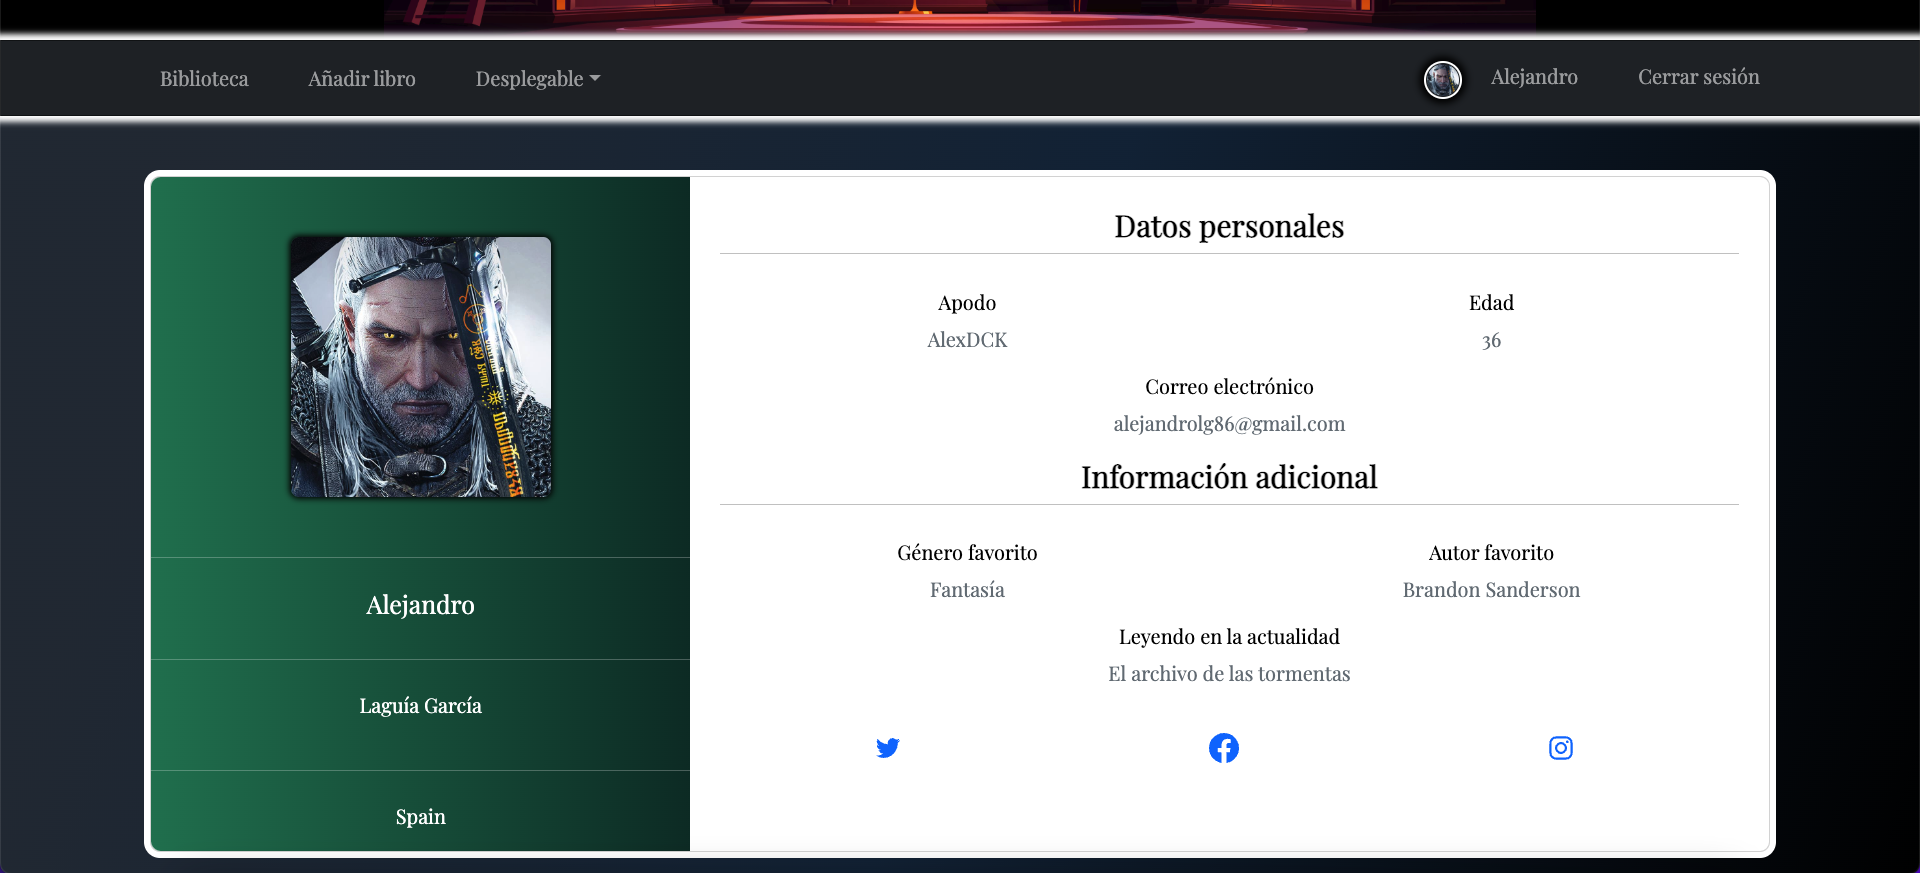
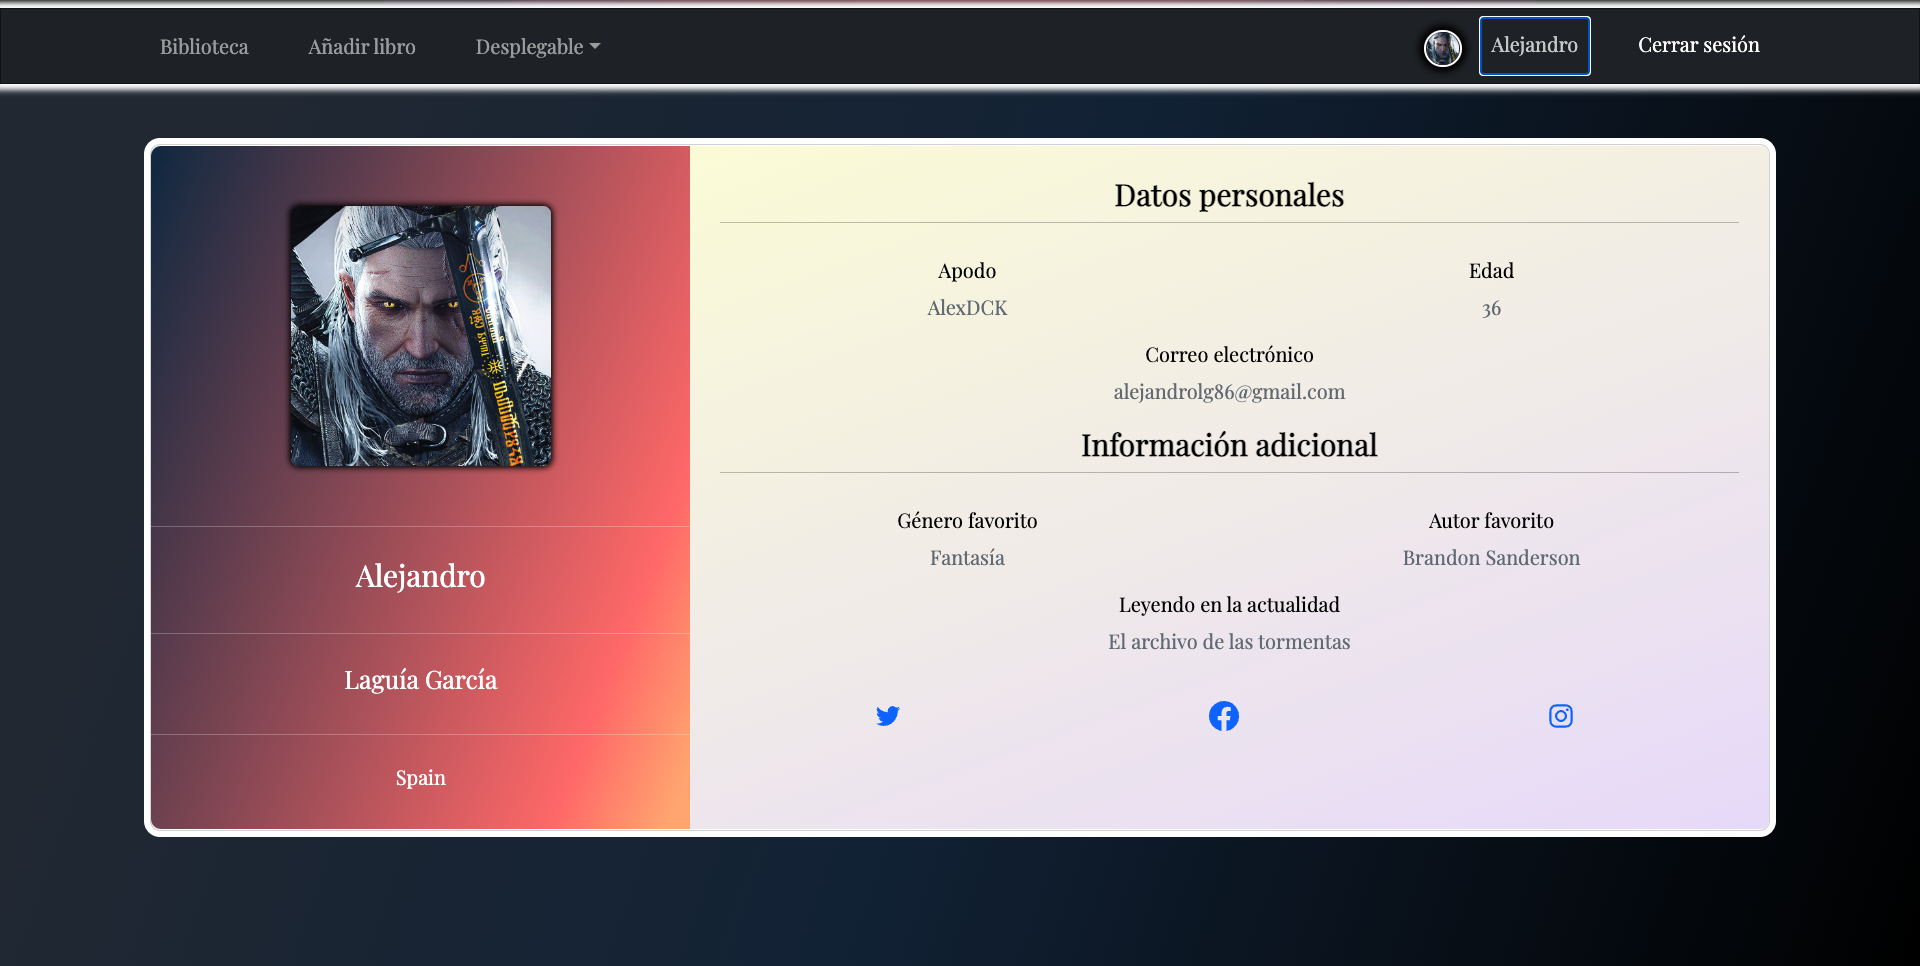
feat: readme

diff --git a/src/components/ProfileCard/ProfileCard.scss b/src/components/ProfileCard/ProfileCard.scss
@@ -1,9 +1,9 @@
 .gradient-custom {
-    background-image: linear-gradient( 109.6deg,  rgba(15,2,2,1) 11.2%, rgba(36,163,190,1) 91.1% );
+    background: linear-gradient(111.1deg, rgb(0, 40, 70) -4.8%, rgb(255, 115, 115) 82.7%, rgb(255, 175, 123) 97.2%);
     /* fallback for old browsers */
-    background-image: linear-gradient( 109.6deg,  rgba(15,2,2,1) 11.2%, rgba(36,163,190,1) 91.1% );
+    background: linear-gradient(111.1deg, rgb(0, 40, 70) -4.8%, rgb(255, 115, 115) 82.7%, rgb(255, 175, 123) 97.2%);
     /* Chrome 10-25, Safari 5.1-6 */
-    background-image: linear-gradient( 109.6deg,  rgba(15,2,2,1) 11.2%, rgba(36,163,190,1) 91.1% );
+    background: linear-gradient(111.1deg, rgb(0, 40, 70) -4.8%, rgb(255, 115, 115) 82.7%, rgb(255, 175, 123) 97.2%);
     /* W3C, IE 10+/ Edge, Firefox 16+, Chrome 26+, Opera 12+, Safari 7+ */
 }
 

diff --git a/README.md b/README.md
@@ -1,0 +1,62 @@
+<img src="/public/Img/geeks.png" style="width:900px; border-radius:0.1em;"/>
+
+---
+
+# <center>Aplicación reseñas de libros </center>
+
+#####Aplicación realizada en html, SASS y javascript con ayuda de las librerías de react y redux. Para las animaciones he utilizado la dependencia framer motion 
+
+
+---
+>En esta aplicación podrás encontrar un lugar donde buscar opiniones de libros, o publicar tus propias reseñas, con el tiempo iré aumentando las funcionalidades de la aplicación ya que al ser un proyecto con límite de tiempo, he tenido que limitarme a unas carácteristicas mínimas para cumplir al menos con el MVP.
+---
+
+# 💻 Tech Stack:
+
+![HTML5](https://img.shields.io/badge/html5-%23E34F26.svg?style=for-the-badge&logo=html5&logoColor=white) ![JavaScript](https://img.shields.io/badge/javascript-%23323330.svg?style=for-the-badge&logo=javascript&logoColor=%23F7DF1E) ![AWS](https://img.shields.io/badge/AWS-%23FF9900.svg?style=for-the-badge&logo=amazon-aws&logoColor=white) ![React](https://img.shields.io/badge/react-%2320232a.svg?style=for-the-badge&logo=react&logoColor=%2361DAFB) ![Redux](https://img.shields.io/badge/redux-%23593d88.svg?style=for-the-badge&logo=redux&logoColor=white) ![SASS](https://img.shields.io/badge/SASS-hotpink.svg?style=for-the-badge&logo=SASS&logoColor=white) ![Bootstrap](https://img.shields.io/badge/bootstrap-%23563D7C.svg?style=for-the-badge&logo=bootstrap&logoColor=white) ![JWT](https://img.shields.io/badge/JWT-black?style=for-the-badge&logo=JSON%20web%20tokens) ![NPM](https://img.shields.io/badge/NPM-%23000000.svg?style=for-the-badge&logo=npm&logoColor=white) ![MUI](https://img.shields.io/badge/MUI-%230081CB.svg?style=for-the-badge&logo=material-ui&logoColor=white) ![Trello](https://img.shields.io/badge/Trello-%23026AA7.svg?style=for-the-badge&logo=Trello&logoColor=white)
+
+---
+###Vista principal de aplicación
+<img src="/public/Img/Home.png" style="border-radius:0.1em;"/>
+---
+---
+###Inicio de sesión
+<img src="/public/Img/Login.png" style="border-radius:0.1em;"/>
+---
+---
+###Nuevo usuario
+<img src="/public/Img/Registro.png" style="border-radius:0.1em;"/>
+---
+---
+###Vista completa de los libros existentes
+<img src="/public/Img/Libro1.png" style="margin-bottom:-0.24em; border-radius:0.1em;"/>
+<img src="/public/Img/Libro2.png" style="border-radius:0.1em;"/>
+
+>La vista incluye un buscador de libros por título, saga, género, autor o año de publicación.
+---
+###Añadir un nuevo libro
+<img src="/public/Img/NuevoLibro.png" style="border-radius:0.1em;"/>
+
+>Cualquier usuario registrado puede añadir libros nuevos a la biblioteca, para poder eleminar un libro solo podrán hacerlo usuarios con permisos de <b>Admin</b>. 
+---
+###Añadir una reseña
+<img src="/public/Img/Reseñas.png" style="border-radius:0.1em;"/>
+
+>Cualquier usuario registrado puede añadir reseñas, pero únicamente el usuario que haya creado la reseña podrá editarla o eliminarla.
+---
+###Vista del perfil de usuario
+<img src="/public/Img/Perfil.png" style="border-radius:0.1em;"/>
+---
+
+
+## 🌐 Socials:
+[![LinkedIn](https://img.shields.io/badge/LinkedIn-%230077B5.svg?logo=linkedin&logoColor=white)](https://www.linkedin.com/in/alejandrolaguia/) 
+
+## Backend asociado a este proyecto
+
+https://github.com/Alexdck/Books_reviews_proyect
+
+
+
+
+
